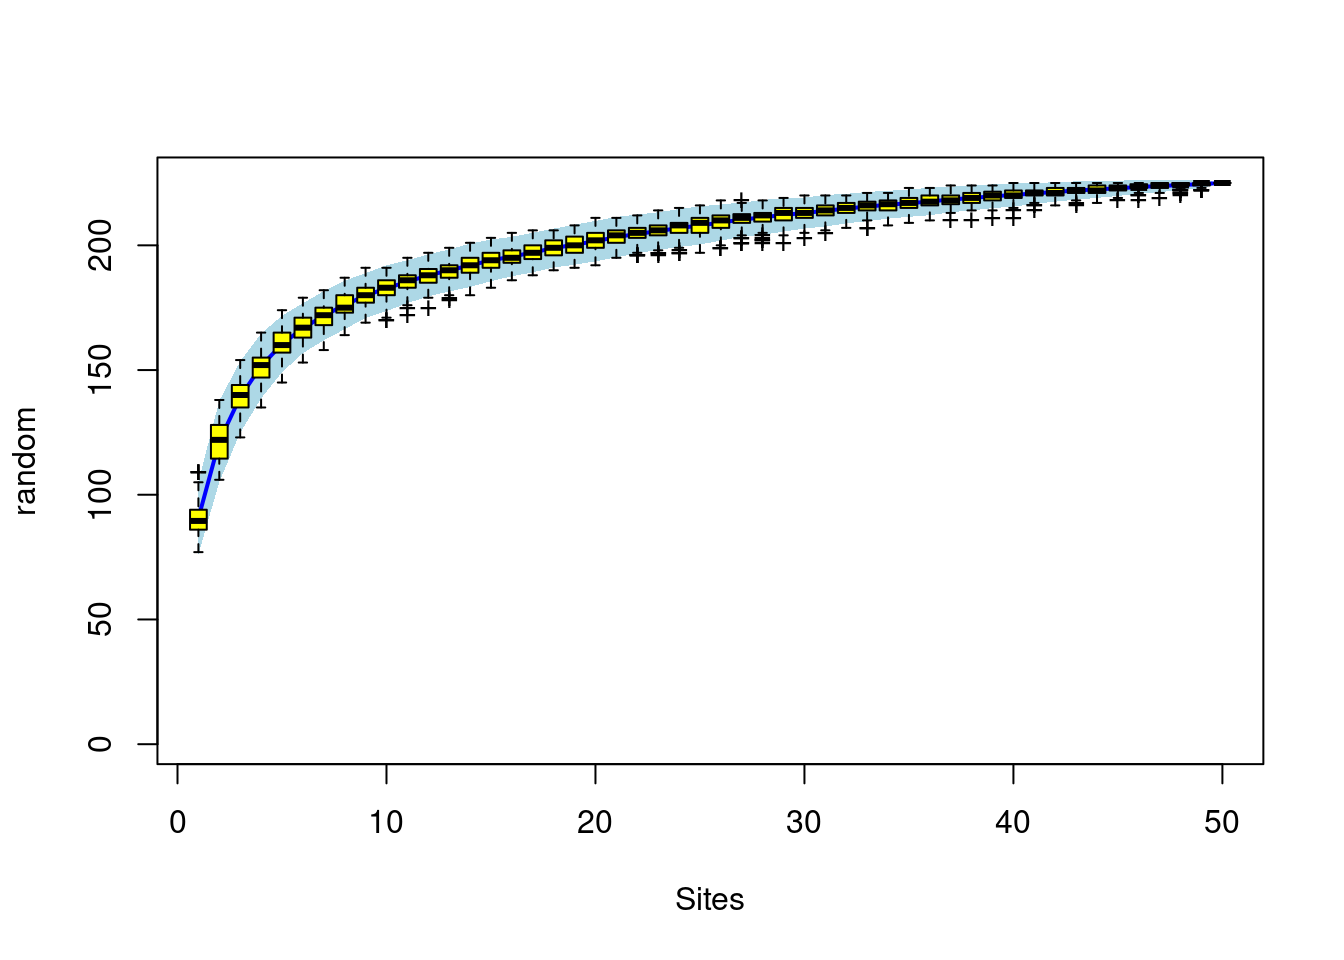
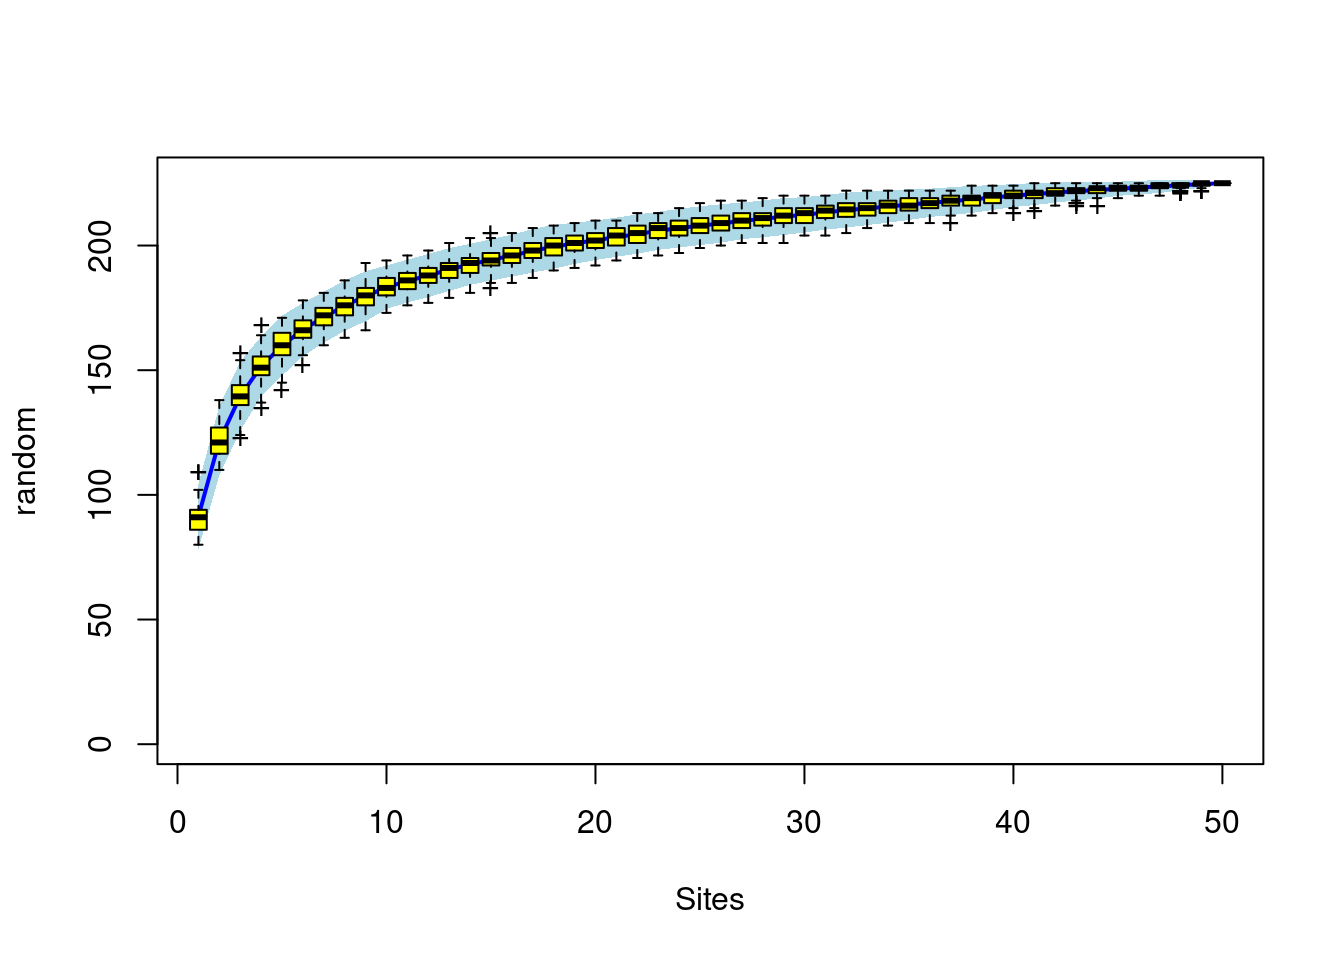
Rmd

diff --git a/content/en/courses/eco_num/descricao_comunidade/desc_comm.html b/content/en/courses/eco_num/descricao_comunidade/desc_comm.html
@@ -90,33 +90,33 @@ sp1</code></pre>
 ## Call: specaccum(comm = BCI, method = &quot;random&quot;) 
 ## 
 ##                                                                             
-## Sites     1.00000   2.00000   3.00000   4.00000   5.00000   6.00000   7.0000
-## Richness 90.61000 121.43000 139.17000 151.58000 160.42000 166.78000 171.7600
-## sd        7.28482   8.14794   7.13797   6.49192   5.67678   5.00218   4.9362
+## Sites     1.00000   2.00000   3.0000   4.00000   5.00000   6.00000   7.00000
+## Richness 91.34000 121.63000 139.5500 151.49000 159.79000 166.31000 171.20000
+## sd        6.52148   6.92624   6.9404   6.01092   6.01563   5.35732   5.10891
+##                                                                              
+## Sites      8.00000   9.00000  10.00000  11.00000  12.0000  13.00000  14.00000
+## Richness 175.90000 179.66000 183.25000 185.78000 187.9500 190.38000 192.42000
+## sd         5.05025   5.01154   4.37249   4.28193   4.3377   4.29418   4.10021
+##                                                                             
+## Sites     15.00000  16.00000  17.00000  18.000  19.00000  20.00000  21.00000
+## Richness 194.27000 195.95000 197.89000 199.500 200.85000 202.11000 203.35000
+## sd         4.16298   4.21487   4.35286   4.405   4.13503   3.95657   3.93732
+##                                                                              
+## Sites     22.00000  23.00000  24.00000  25.00000  26.00000  27.00000  28.0000
+## Richness 204.57000 205.89000 206.97000 207.98000 208.82000 209.91000 210.6500
+## sd         3.93188   3.81887   3.86242   3.88205   3.85961   3.66831   3.6883
 ##                                                                               
-## Sites      8.00000   9.00000  10.00000  11.00000  12.00000  13.00000  14.00000
-## Richness 176.12000 179.86000 182.80000 185.40000 187.99000 189.94000 192.01000
-## sd         4.87061   4.48796   4.58368   4.29705   4.20797   4.21114   4.35657
+## Sites     29.00000  30.00000  31.00000  32.00000  33.00000  34.00000  35.00000
+## Richness 211.64000 212.31000 213.31000 214.21000 214.90000 215.64000 216.42000
+## sd         3.70781   3.53823   3.48647   3.49399   3.35598   3.22716   3.08525
 ##                                                                              
-## Sites     15.00000  16.00000  17.00000  18.00000  19.00000  20.00000  21.0000
-## Richness 193.95000 195.51000 197.11000 198.92000 200.25000 201.68000 203.2800
-## sd         4.16182   3.95299   3.96677   3.88907   4.01355   4.05737   4.0479
+## Sites     36.00000  37.00000  38.00000  39.00000  40.00000  41.0000  42.00000
+## Richness 217.15000 217.76000 218.50000 219.24000 220.03000 220.6500 221.23000
+## sd         2.82977   2.80375   2.70615   2.50301   2.28502   2.2128   2.00935
 ##                                                                              
-## Sites     22.00000  23.0000  24.00000  25.00000  26.00000  27.00000  28.00000
-## Richness 204.60000 205.6900 206.94000 207.96000 209.16000 210.31000 211.21000
-## sd         3.87689   3.7731   3.79479   3.82422   3.62851   3.40735   3.48241
-##                                                                              
-## Sites     29.00000  30.00000  31.00000  32.00000  33.0000  34.00000  35.00000
-## Richness 212.21000 212.95000 213.86000 214.73000 215.5500 216.27000 216.89000
-## sd         3.35838   3.09896   3.17509   2.94342   2.9349   2.79196   2.73361
-##                                                                              
-## Sites     36.00000  37.00000  38.00000  39.00000  40.00000  41.00000  42.0000
-## Richness 217.58000 218.38000 218.97000 219.67000 220.18000 220.84000 221.3800
-## sd         2.74572   2.55754   2.48817   2.37434   2.33714   2.08758   1.9477
-##                                                                              
-## Sites     43.00000  44.00000  45.00000  46.00000  47.00000  48.0000  49.00000
-## Richness 221.98000 222.43000 222.87000 223.39000 223.78000 224.1500 224.57000
-## sd         1.83116   1.70712   1.53514   1.36991   1.19409   1.0384   0.79462
+## Sites     43.00000  44.0000  45.00000  46.00000  47.00000  48.00000  49.00000
+## Richness 221.81000 222.2500 222.75000 223.25000 223.68000 224.20000 224.61000
+## sd         1.88398   1.7019   1.43108   1.33617   1.31717   1.00504   0.70918
 ##             
 ## Sites     50
 ## Richness 225
